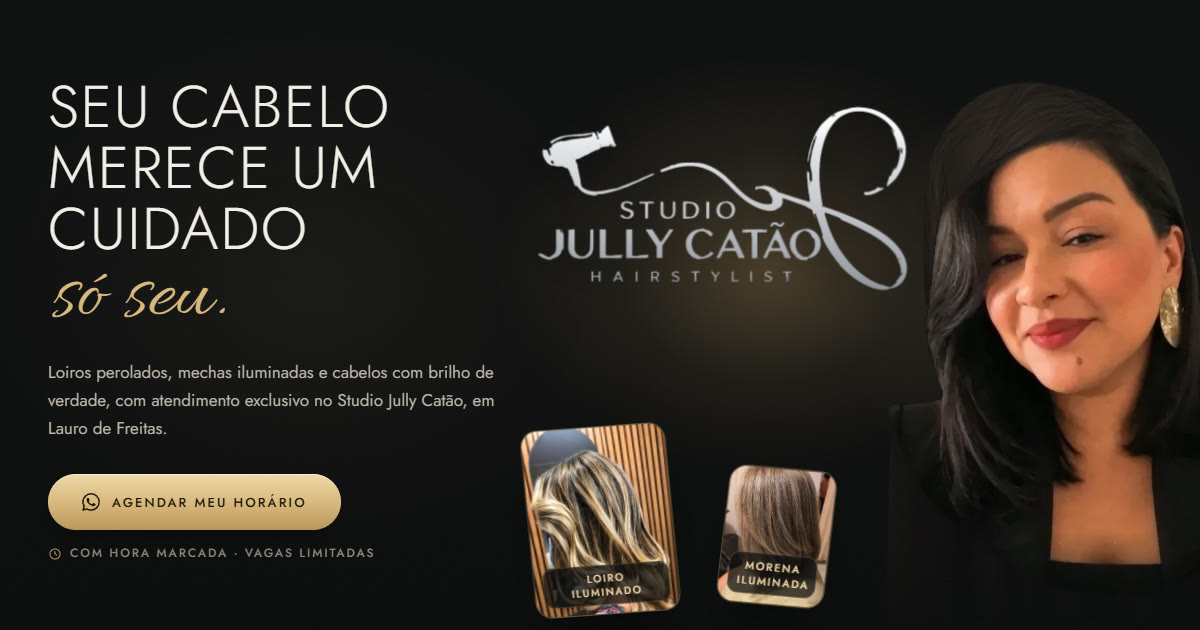
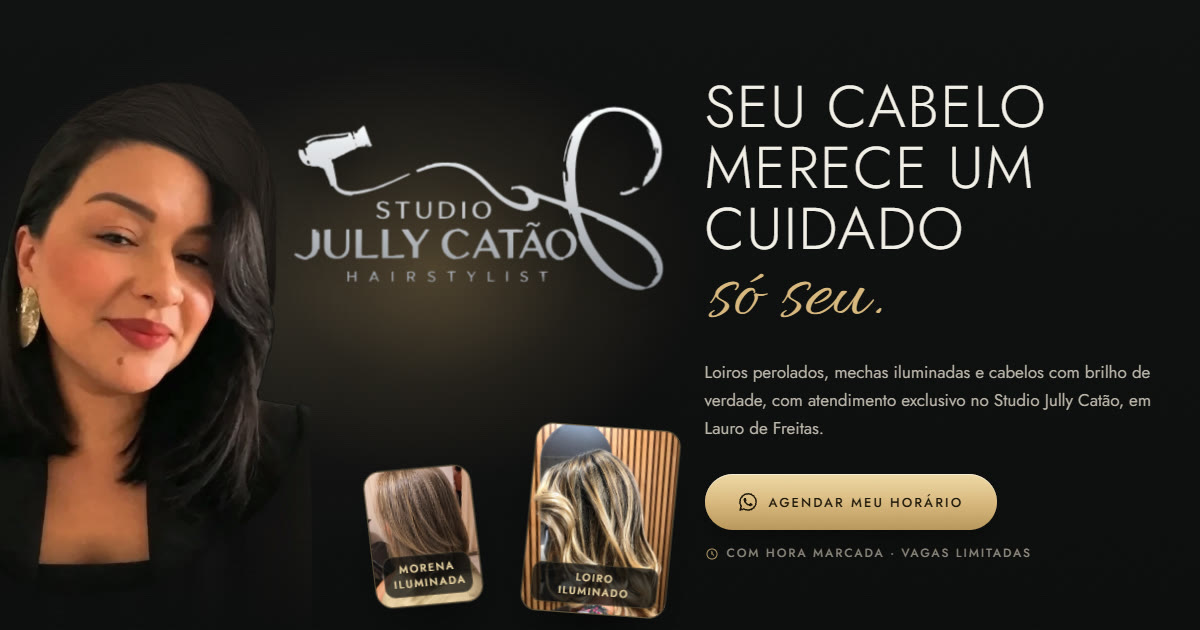
Prévia: foto da Jully do lado esquerdo olhando para dentro

diff --git a/index.html b/index.html
@@ -257,7 +257,7 @@
     }
     .hero__grade {
       display: grid;
-      grid-template-columns: minmax(0, 5fr) minmax(0, 7fr);
+      grid-template-columns: minmax(0, 7fr) minmax(0, 5fr);
       align-items: end;
       gap: clamp(16px, 2.5vw, 40px);
     }
@@ -285,7 +285,8 @@
     .hero__cena {
       position: relative;
       aspect-ratio: 1.08 / 1;
-      margin-right: calc(var(--gutter) * -1);
+      order: -1;
+      margin-left: calc(var(--gutter) * -1);
       perspective: 1400px;
       --mx: 0; --my: 0; --sy: 0;
     }
@@ -298,19 +299,19 @@
     }
     /* Luz quente de parede atrás do letreiro */
     .hero__luz {
-      position: absolute; left: -8%; top: -4%; width: 86%; height: 72%;
+      position: absolute; left: 22%; top: -4%; width: 86%; height: 72%;
       background: radial-gradient(closest-side, rgba(222, 178, 112, .3), rgba(222, 178, 112, .08) 55%, transparent);
       pointer-events: none;
       --k: .2; --z: -90px; --ks: 70;
     }
     /* Halo quente atrás da Jully: separa o cabelo e o blazer pretos do fundo preto */
     .hero__aura {
-      position: absolute; right: -12%; top: 2%; width: 66%; height: 72%;
+      position: absolute; left: -12%; top: 2%; width: 66%; height: 72%;
       background: radial-gradient(closest-side, rgba(216, 183, 125, .14), rgba(216, 183, 125, .04) 60%, transparent);
       pointer-events: none;
       --k: .4; --z: -60px; --ks: 40;
     }
-    .hero__letreiro { position: absolute; left: 0; top: 6%; width: 57%; --k: .35; --z: -40px; --ks: 55; }
+    .hero__letreiro { position: absolute; left: 43%; top: 6%; width: 57%; --k: .35; --z: -40px; --ks: 55; }
     .hero__letreiro img { width: 100%; filter: drop-shadow(0 6px 18px rgba(0, 0, 0, .45)); }
     /* Brilho que passa uma vez pelas letras (só aparece se o navegador aceitar máscara) */
     .hero__brilho {
@@ -321,27 +322,26 @@
       opacity: 0;
     }
     /* A Jully passa da borda de baixo da capa e some só no fim, atrás da faixa */
-    /* A Jully fica à direita e ESPELHADA: na foto original ela vira o rosto para a direita,
-       então espelhada ela olha para dentro da página (letreiro e texto). Passa da borda direita e da de baixo. */
-    .hero__jully { position: absolute; right: -24%; top: 0; width: 72%; --fade-ini: 74%; --fade-fim: 90%; --k: .7; --z: 0px; --ks: 15; }
+    /* A Jully fica à esquerda, sem espelhar: na foto ela vira o rosto para a direita,
+       então olha para dentro da página (letreiro e texto). Passa da borda esquerda e da de baixo. */
+    .hero__jully { position: absolute; left: -24%; top: 0; width: 72%; --fade-ini: 74%; --fade-fim: 90%; --k: .7; --z: 0px; --ks: 15; }
     .hero__jully img {
       width: 100%;
-      transform: scaleX(-1);
       -webkit-mask-image: linear-gradient(180deg, #000 var(--fade-ini), transparent var(--fade-fim));
       mask-image: linear-gradient(180deg, #000 var(--fade-ini), transparent var(--fade-fim));
     }
     /* Cartões flutuantes com trabalhos reais, à frente da Jully */
     .hero__card { position: absolute; width: 21%; transform-style: preserve-3d; }
-    .hero__card--a { left: 3%; bottom: 14%; --k: 1.2; --z: 90px; --ks: -80; }
-    .hero__card--b { left: 31%; bottom: 17%; width: 15%; --k: 1.5; --z: 130px; --ks: -130; }
+    .hero__card--a { right: 3%; bottom: 14%; --k: 1.2; --z: 90px; --ks: -80; }
+    .hero__card--b { right: 31%; bottom: 17%; width: 15%; --k: 1.5; --z: 130px; --ks: -130; }
     .hero__card-in {
       position: relative; aspect-ratio: 4 / 5; overflow: hidden;
       border: 1px solid var(--fio-forte); border-radius: 16px;
       box-shadow: 0 34px 50px -24px rgba(0, 0, 0, .9);
       transform: rotateY(var(--ry)) rotateX(var(--rx)) rotateZ(var(--rz));
     }
-    .hero__card--a .hero__card-in { --ry: 20deg; --rx: 6deg; --rz: -4deg; }
-    .hero__card--b .hero__card-in { --ry: -18deg; --rx: 8deg; --rz: 5deg; }
+    .hero__card--a .hero__card-in { --ry: -20deg; --rx: 6deg; --rz: 4deg; }
+    .hero__card--b .hero__card-in { --ry: 18deg; --rx: 8deg; --rz: -5deg; }
     .hero__card img { width: 100%; height: 100%; object-fit: cover; }
     .foco-alto { object-position: 50% 20%; }
     .hero__card figcaption {
@@ -701,11 +701,11 @@
       .hero { padding-top: var(--topo-h); }
       .hero__grade { grid-template-columns: 1fr; gap: 0; }
       .hero__cena { order: -1; margin-inline: calc(var(--gutter) * -1); aspect-ratio: 1 / .9; max-height: 560px; overflow: hidden; }
-      .hero__letreiro { left: 3%; top: 7%; width: 55%; }
-      .hero__luz { left: -10%; top: -6%; width: 100%; height: 70%; }
-      .hero__jully { right: -24%; top: 3%; width: 70%; --fade-ini: 62%; --fade-fim: 84%; }
-      .hero__aura { right: -14%; width: 80%; }
-      .hero__card--a { left: 5%; bottom: 11%; width: 21%; --z: 40px; }
+      .hero__letreiro { left: 42%; top: 7%; width: 55%; }
+      .hero__luz { left: 8%; top: -6%; width: 100%; height: 70%; }
+      .hero__jully { left: -24%; top: 3%; width: 70%; --fade-ini: 62%; --fade-fim: 84%; }
+      .hero__aura { left: -14%; width: 80%; }
+      .hero__card--a { right: 5%; bottom: 11%; width: 21%; --z: 40px; }
       .hero__card--b { display: none; }
       .hero__card figcaption { left: 5px; right: 5px; bottom: 5px; padding: 4px 5px; font-size: .625rem; letter-spacing: .08em; }
       .hero__texto { padding-block: 0 36px; }
